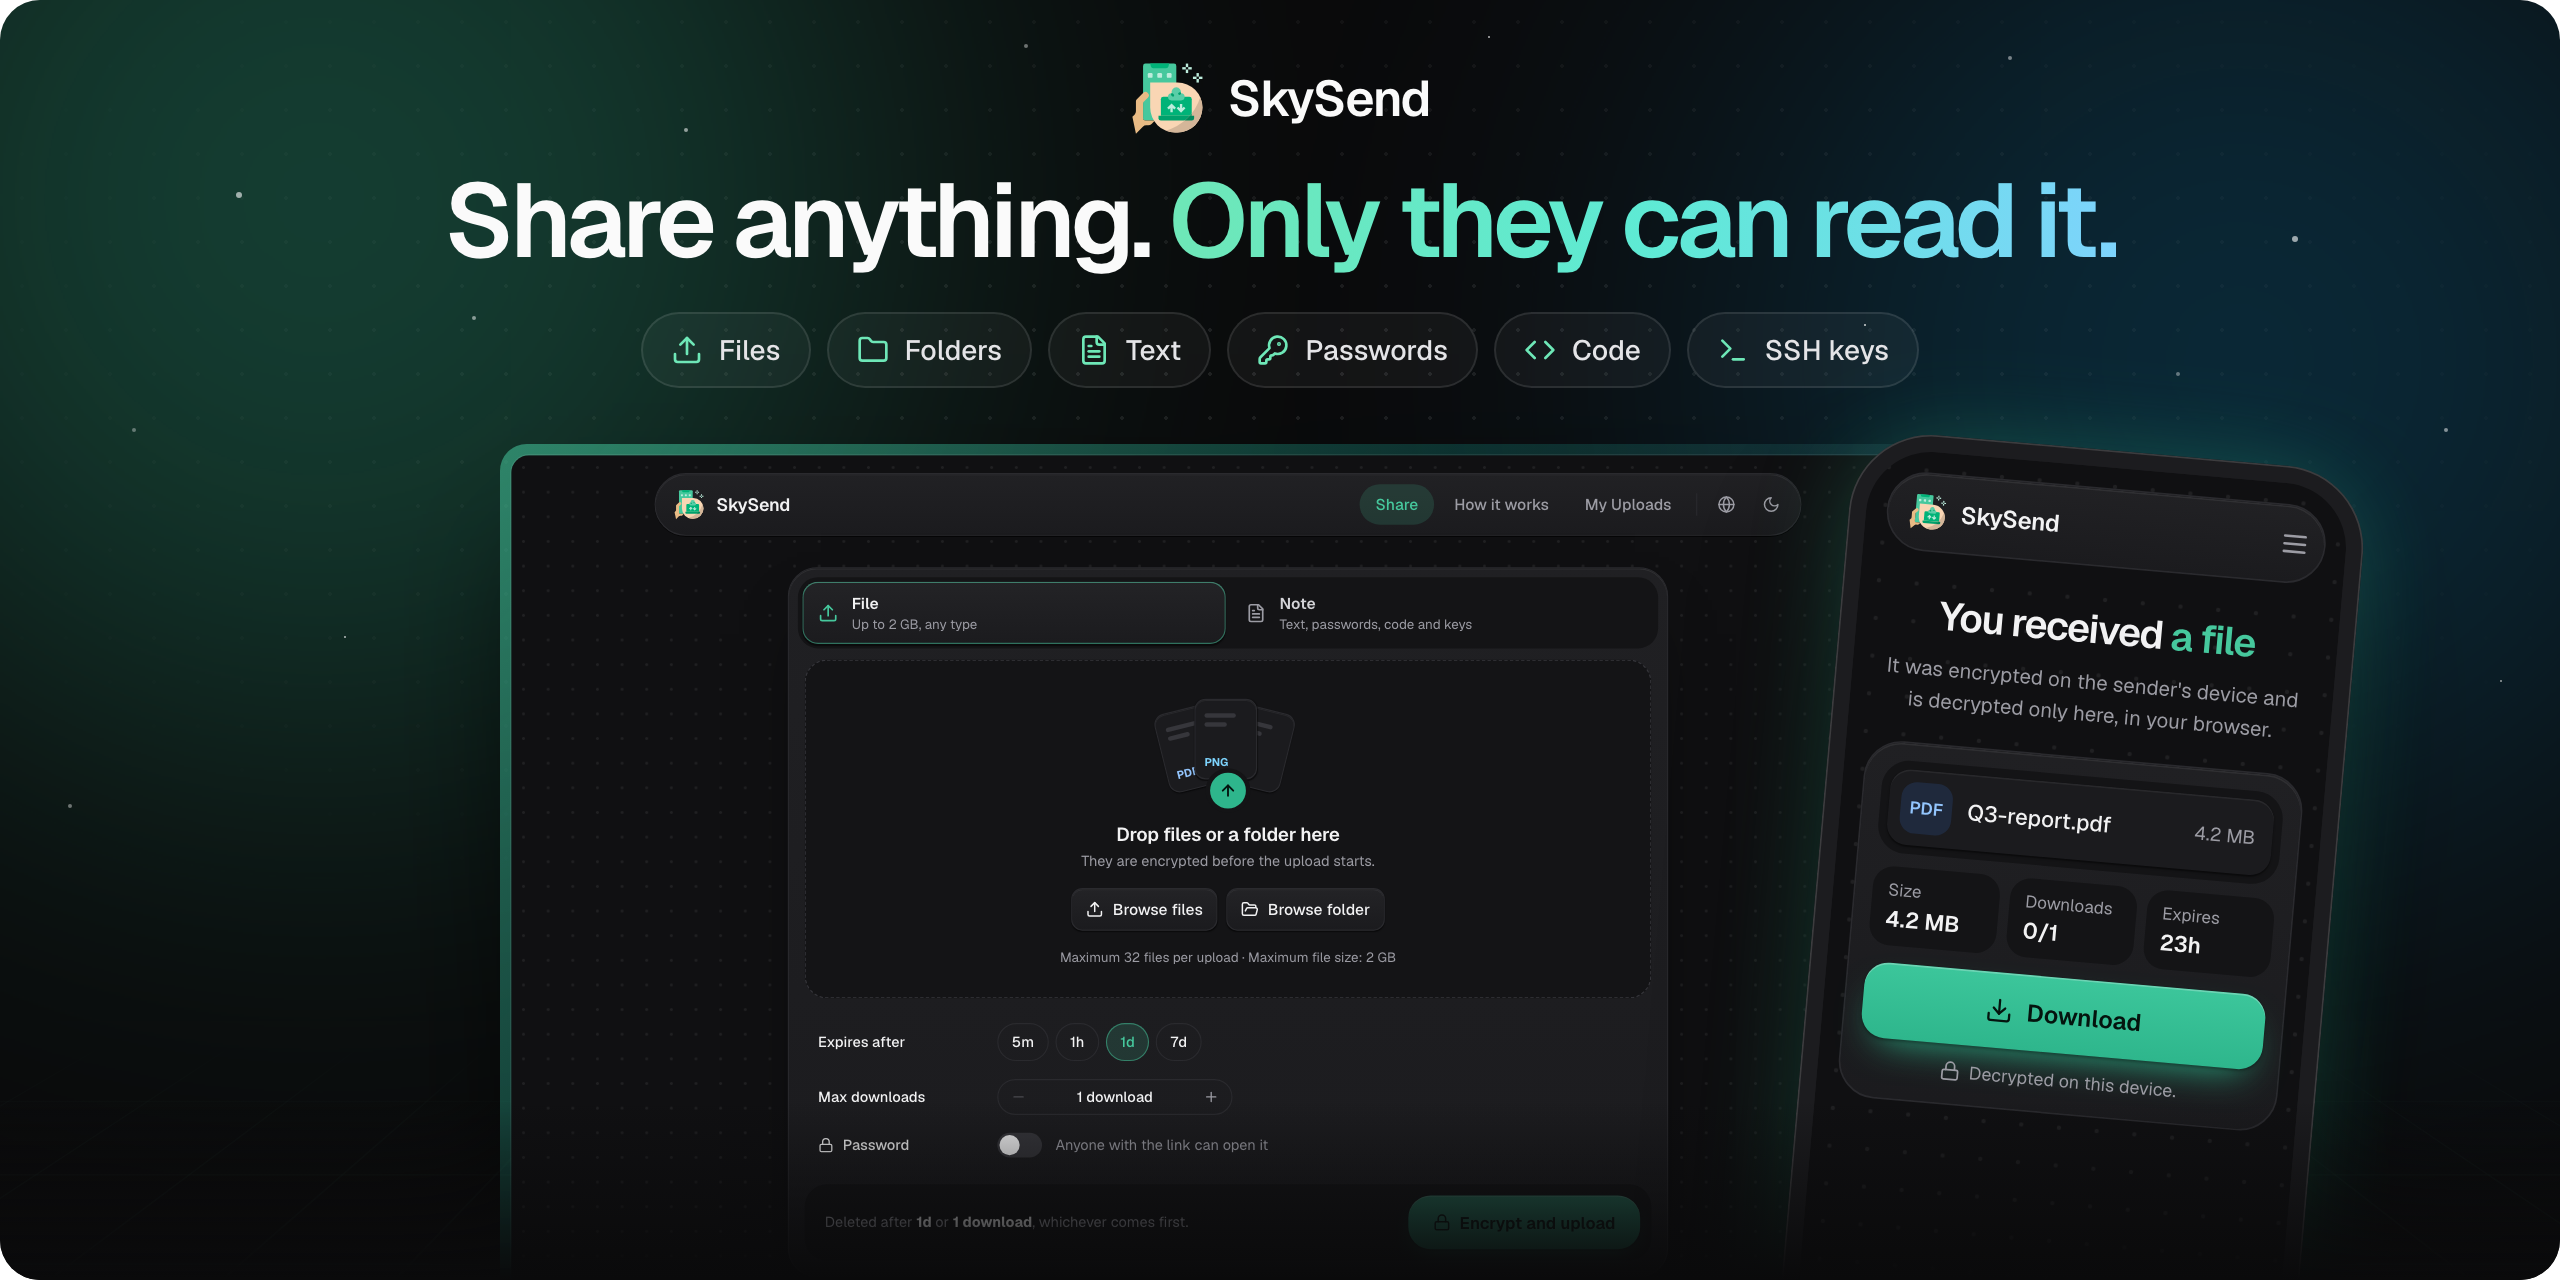
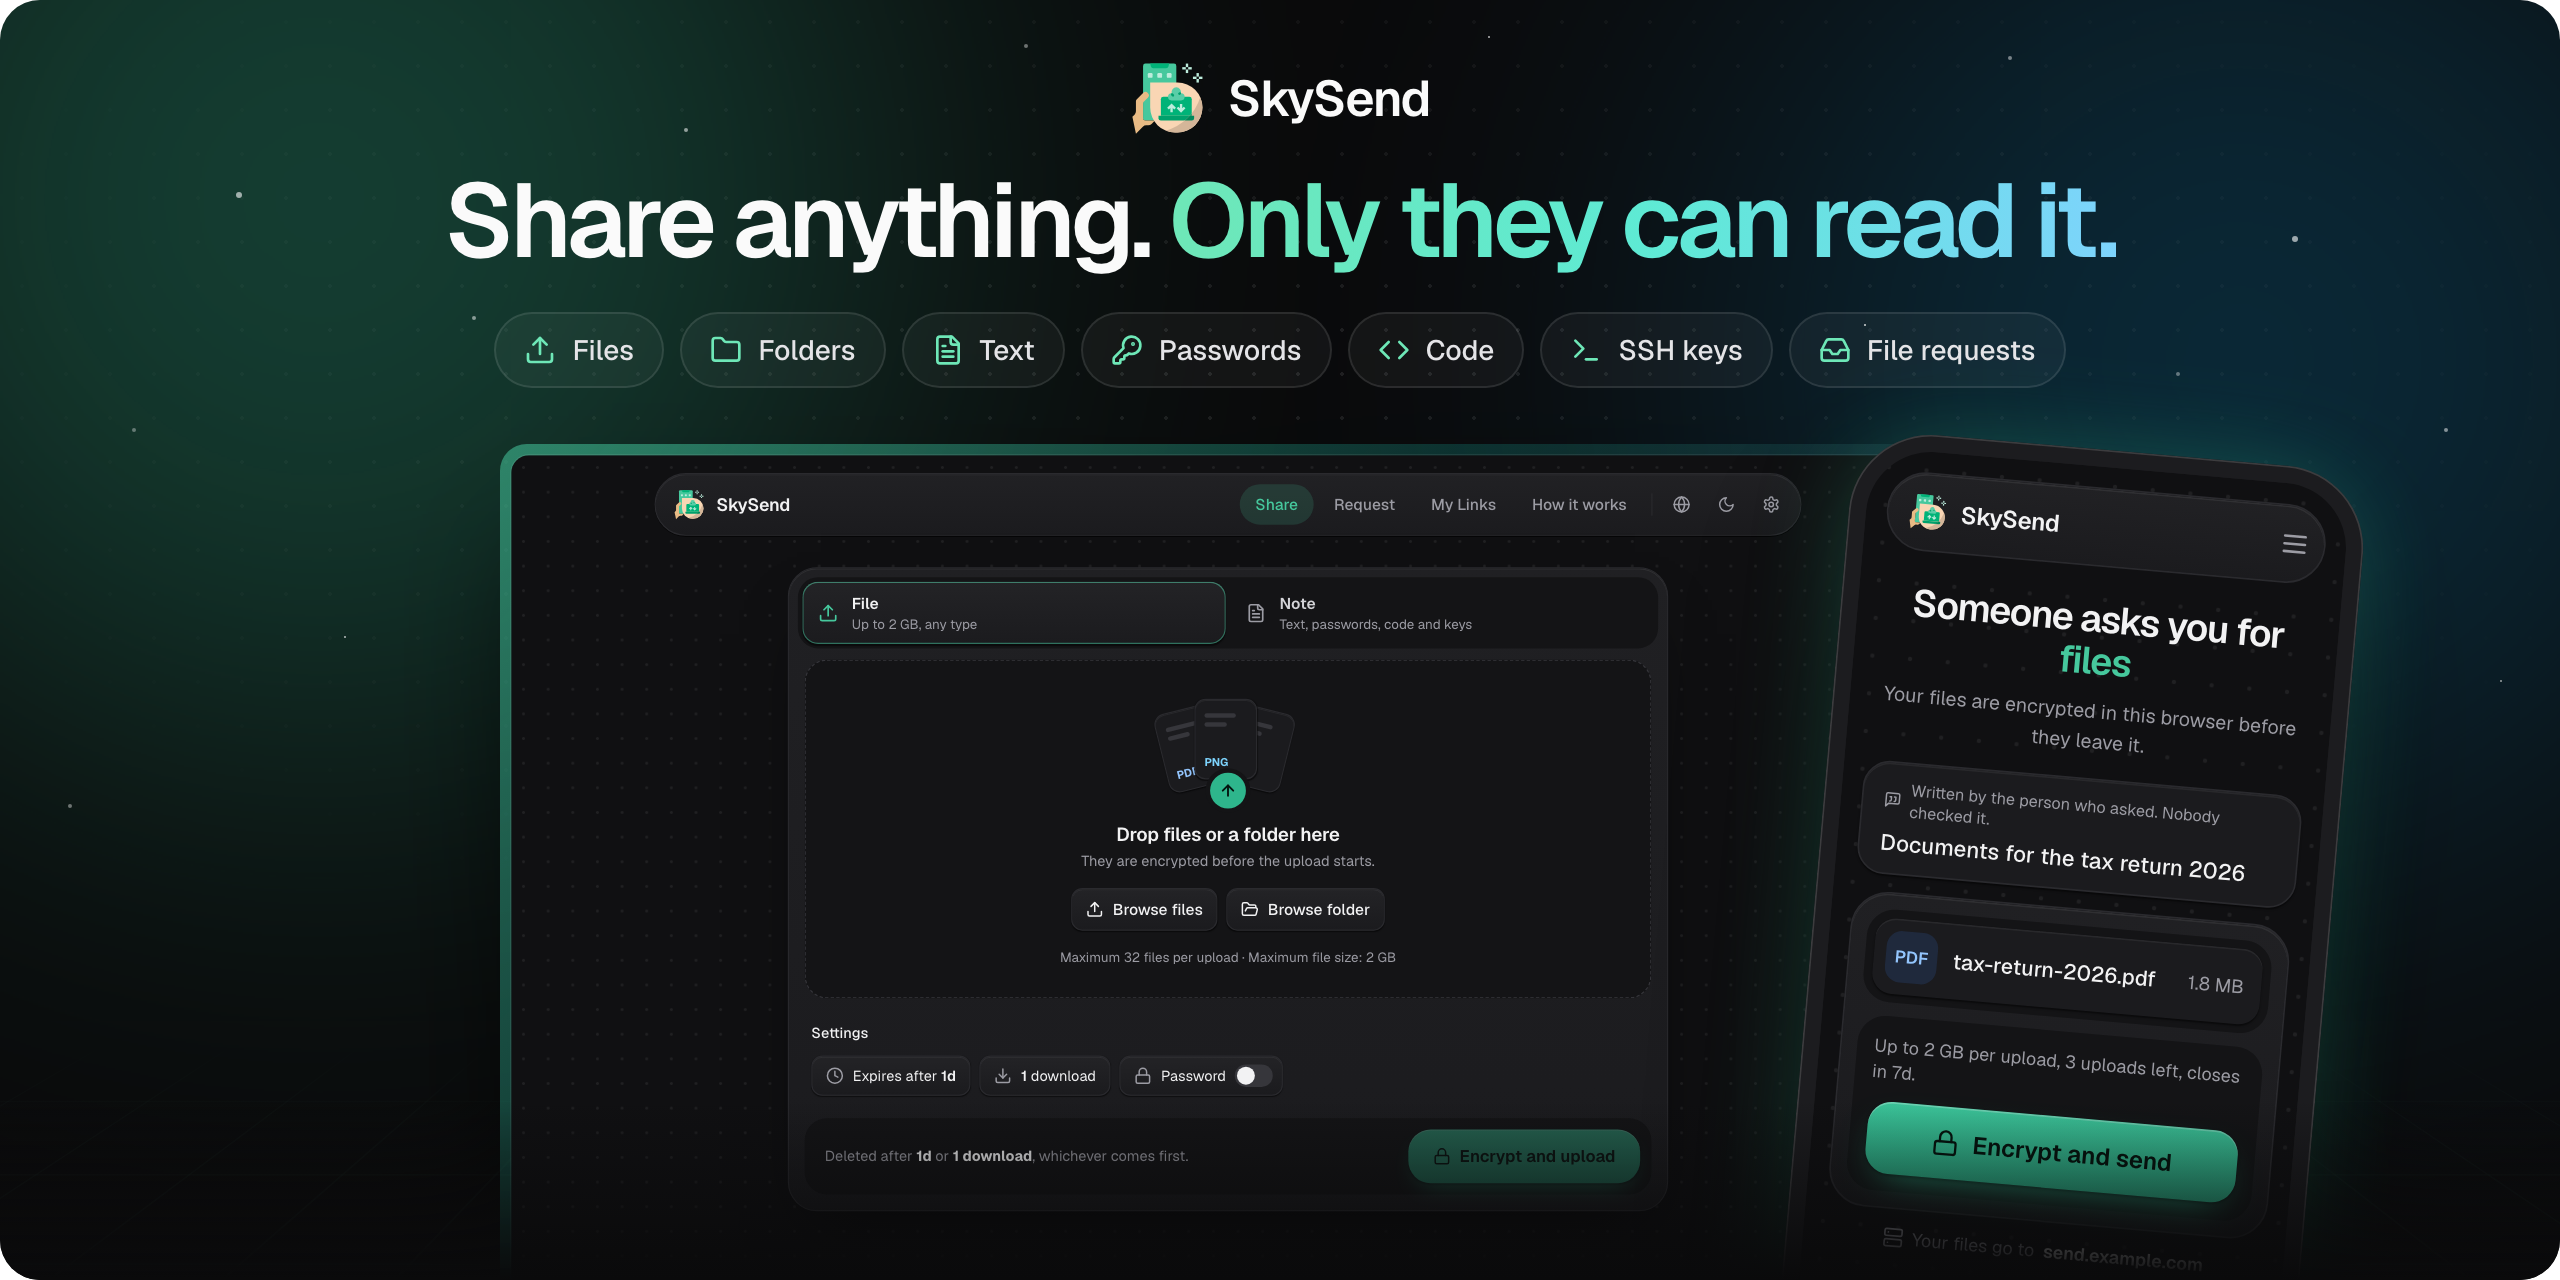
Update README highlights and security track record
- Mention note requests alongside file requests in the feature list
- Replace the "no audit yet" line with the actual track record: privately
  reported vulnerabilities fixed and published as credited advisories
- Swap the readme banner image and its alt text to show a file request
  instead of the download page
- Add the matching changelog fragment entry

diff --git a/README.md b/README.md
@@ -35,7 +35,7 @@
 -->
 
 <div align="center">
-  <img src="https://raw.githubusercontent.com/Skyfay/SkySend/main/docs/public/readme-banner.png" alt="The SkySend share page on a desktop and the download page on a phone" width="800">
+  <img src="https://raw.githubusercontent.com/Skyfay/SkySend/main/docs/public/readme-banner.png" alt="The SkySend share page on a desktop and a file request on a phone" width="800">
 </div>
 
 ### What is SkySend?
@@ -51,7 +51,7 @@ Inspired by [timvisee/send](https://github.com/timvisee/send), the community for
 - **Zero knowledge** - AES-256-GCM in the browser, and the key never leaves the share link
 - **Files and folders** - single files, several at once or a whole folder, zipped in the browser, with size and file limits you set yourself
 - **Notes made of blocks** - text and Markdown, passwords with a generator, code with highlighting and SSH keys, combined in one note
-- **File requests** - send someone an upload link, and what they upload is encrypted for you alone
+- **File and note requests** - send someone an upload link, and the files or the note they send are encrypted for you alone
 - **Shares that delete themselves** - expiry times, download and view limits, and burn after reading
 - **Password protection** - an optional password on top of the link, derived with Argon2id
 - **A CLI for the terminal** - upload, download and notes with the same encryption, plus an interactive TUI
@@ -161,7 +161,7 @@ Pull requests go into the `dev` branch, never into `main`. [CONTRIBUTING.md](CON
 
 The architecture, the cryptographic design, the technology stack and the feature specifications of SkySend were designed and directed by a human system engineer. The code is written by AI coding agents that follow those specifications and the guidelines of the project. Every feature is tested by hand, backed by unit tests with coverage tracking, CodeQL and security audits.
 
-A manual security audit by an external developer has not been done yet. The crypto design is [publicly documented](https://docs.skysend.app/developer-guide/crypto/) to make an independent review easy. If you review code or work in security, your findings are very welcome, see [SECURITY.md](SECURITY.md) for how to report them.
+A formal security audit by an external firm has not been done yet. Independent security researchers have reviewed parts of the code and reported vulnerabilities privately. Every report was fixed in a release and published as an advisory that credits the reporter, see [Security Advisories](https://github.com/Skyfay/SkySend/security/advisories). The crypto design is [publicly documented](https://docs.skysend.app/developer-guide/crypto/) to make a full review easy. If you review code or work in security, your findings are very welcome, see [SECURITY.md](SECURITY.md) for how to report them.
 
 ## 📝 License
 

diff --git a/changelog/unreleased/readme-and-sponsors.md b/changelog/unreleased/readme-and-sponsors.md
@@ -2,6 +2,7 @@
 
 - **docs**: The README is shorter and opens with a banner of the new interface on a desktop and a phone instead of a screenshot of the old one.
 - **docs**: A security policy explains how to report a vulnerability privately, and the contributing guide and the developer guide explain that pull requests go into the `dev` branch.
+- **docs**: The README names file and note requests among the highlights and says how independent researchers have reviewed SkySend so far, with a link to the published security advisories.
 
 ### 🔧 CI/CD
 
